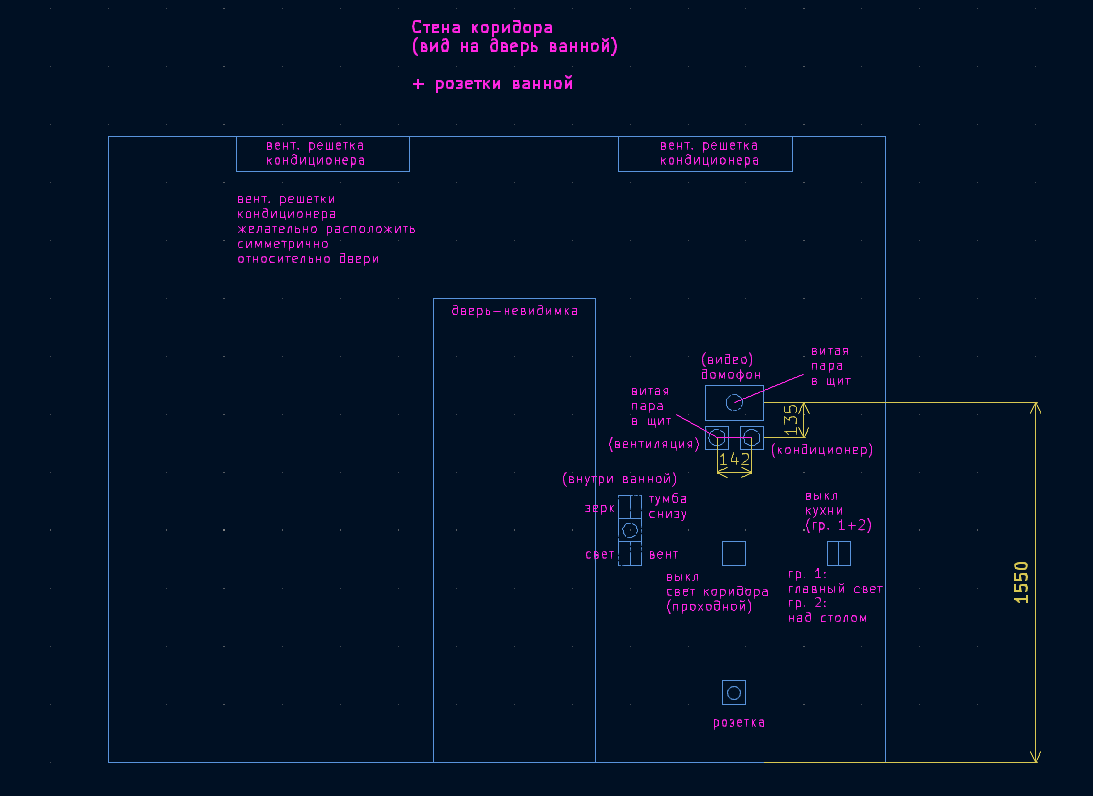
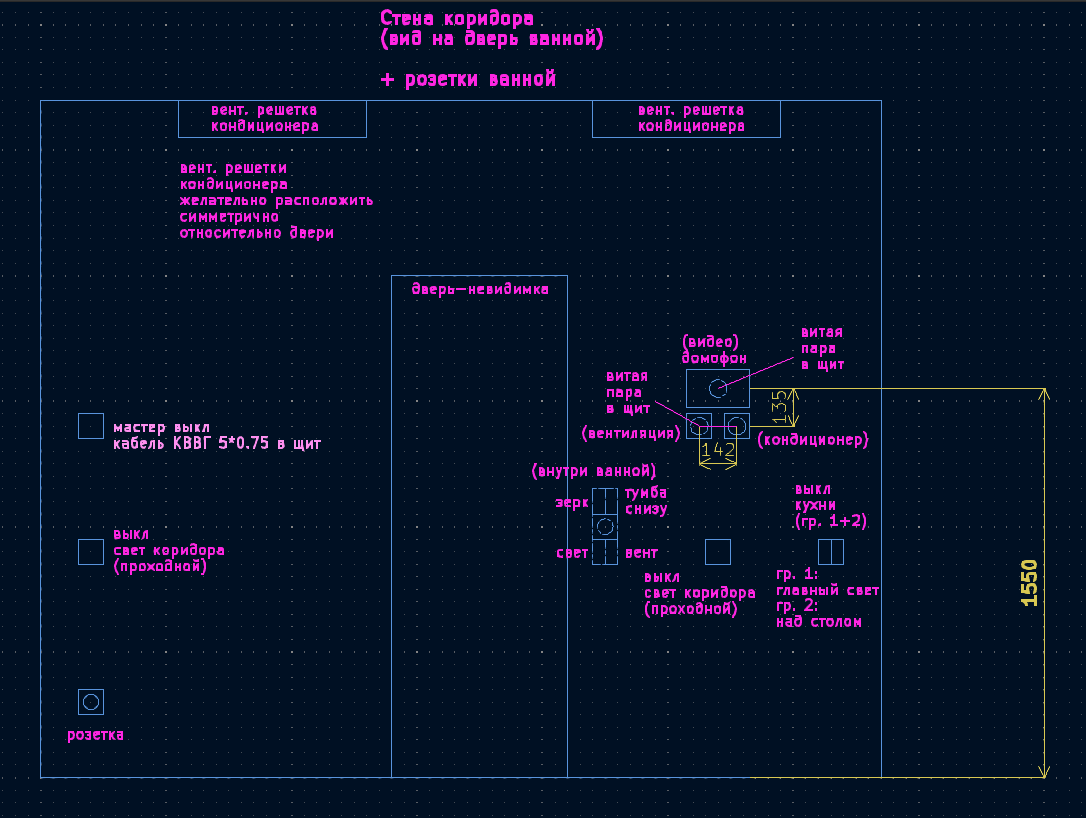
planning v2

diff --git a/o/v2/changes-to-v1.md b/o/v2/changes-to-v1.md
@@ -8,6 +8,7 @@
           * Стенки из пеноблока 8см
           * Длина фасадов дверей, если возможно, 200см (4 двери x 50см)
           * [Изменения в конструкции электрического щита в торце шкафа и размещения розеток гостиной](design/screenshots/power-distribution-cabinet-1.png)
+          * [Схема электрического щита в торце шкафа и размещения розеток гостиной](electricity/2d_plans/power_box_layout.svg)
     * Зона кухни
         * Длина кухонного гарнитура 345см, без уменьшения длины внутренних модулей, для этого:
         * Можно в месте "утолщений" стояка, касающихся гарнитура, сделать выемки фрезой - будут скрыты гарнитуром, ОК.
@@ -28,6 +29,7 @@
       * Одна теплая стена - стена между прихожей и ванной.
       * Вент. решетка у стены над умывальником (1м?)
       * Зеркало, ширина 100см.
+    * [Коридор](electricity/2d_plans/corridor__s.png)
 
 * **Электричество**
   * [Места установок проводных пультов кондиционера, вентиляции](electricity/2d_plans/corridor__s.png)
